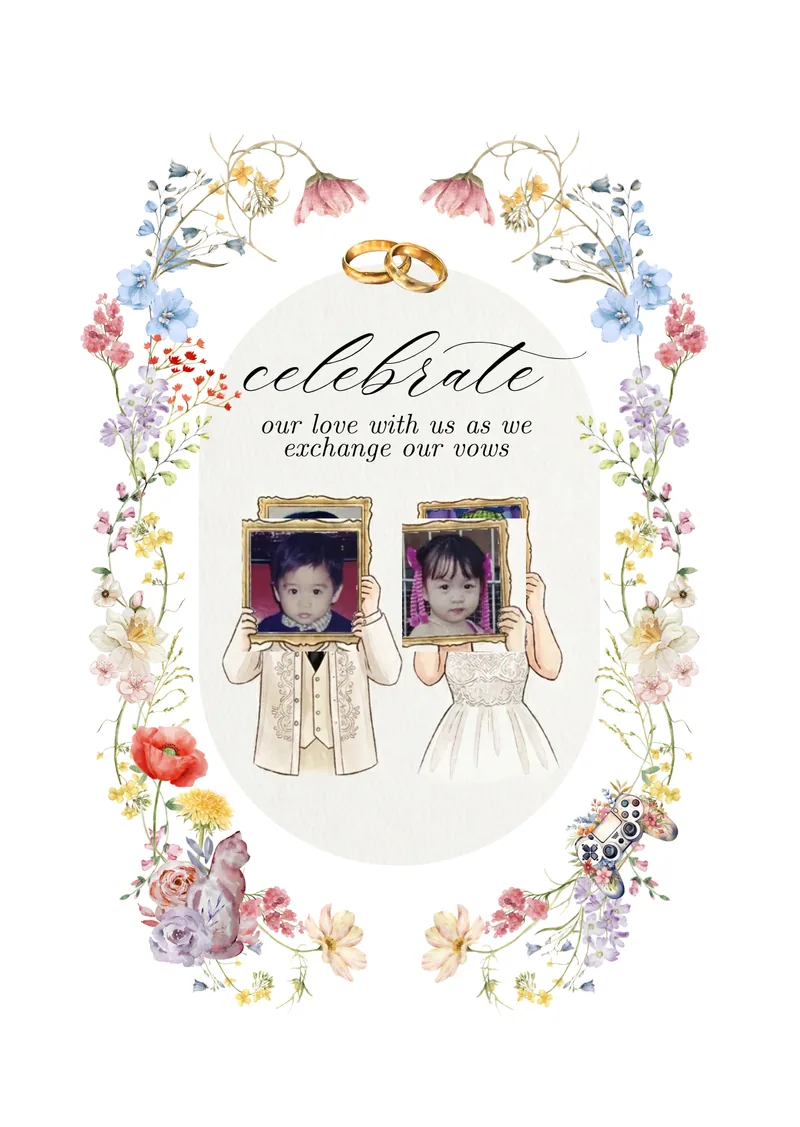
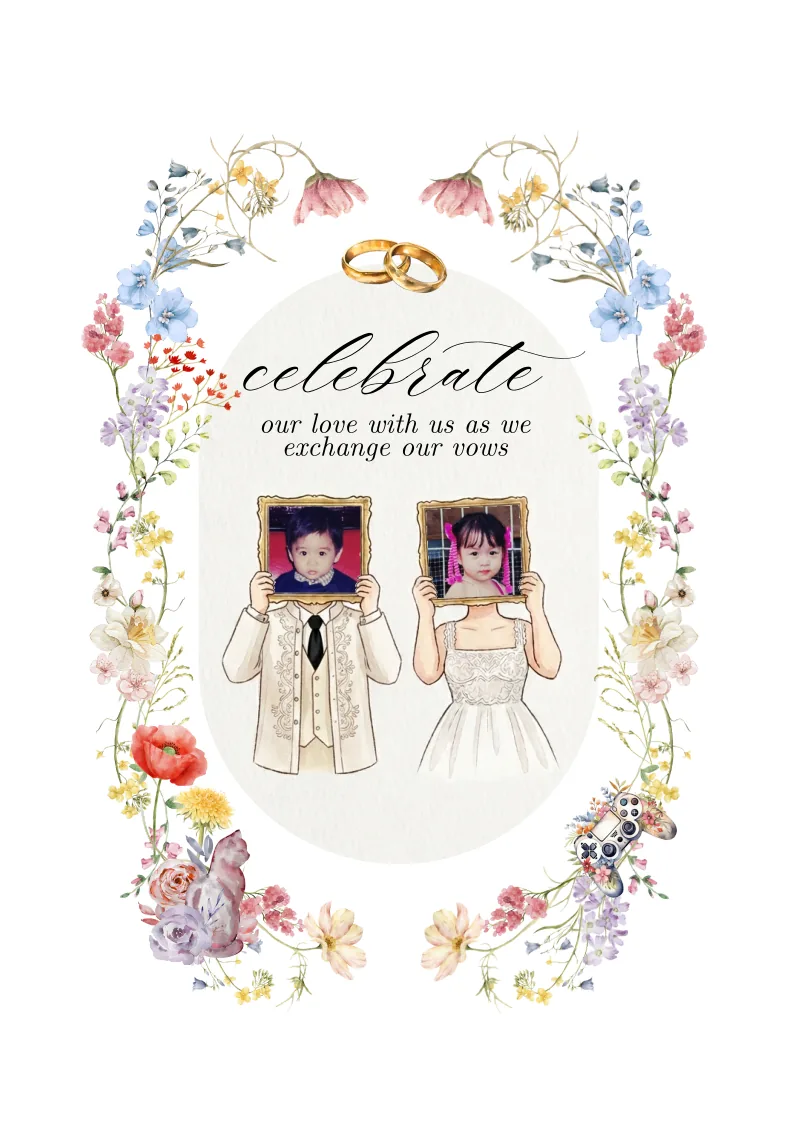
Cross-fade between two pixel-aligned hero SVGs.
Replace the bespoke photo-rectangle compositing with the two
pre-rendered hero variants the client supplied (kid frames and
toddler frames) so the only diff between cover.webp and
cover-past.webp is the photos inside the gold frames.  Tightened the
flip transition timing/easing and preloaded both variants in
index.html so the cross-fade has no flicker on first tap.

Made-with: Cursor

diff --git a/index.html b/index.html
@@ -6,6 +6,8 @@
     <meta name="description" content="Bien & Keana wedding invitation." />
     <title>Bien & Keana · Wedding E-vite</title>
     <link rel="preload" href="/fonts/Slight-Regular.ttf" as="font" type="font/ttf" crossorigin="anonymous" />
+    <link rel="preload" href="/pages/cover.webp" as="image" type="image/webp" fetchpriority="high" />
+    <link rel="preload" href="/pages/cover-past.webp" as="image" type="image/webp" />
   </head>
   <body>
     <div id="root"></div>

diff --git a/src/App.jsx b/src/App.jsx
@@ -133,7 +133,9 @@ const FontInjection = () => (
 
     /* photo crossfade */
     .flip-img {
-      transition: opacity 1100ms cubic-bezier(.4,0,.2,1);
+      transition: opacity 900ms cubic-bezier(0.65, 0, 0.35, 1);
+      will-change: opacity;
+      backface-visibility: hidden;
     }
 
     /* button hover */
